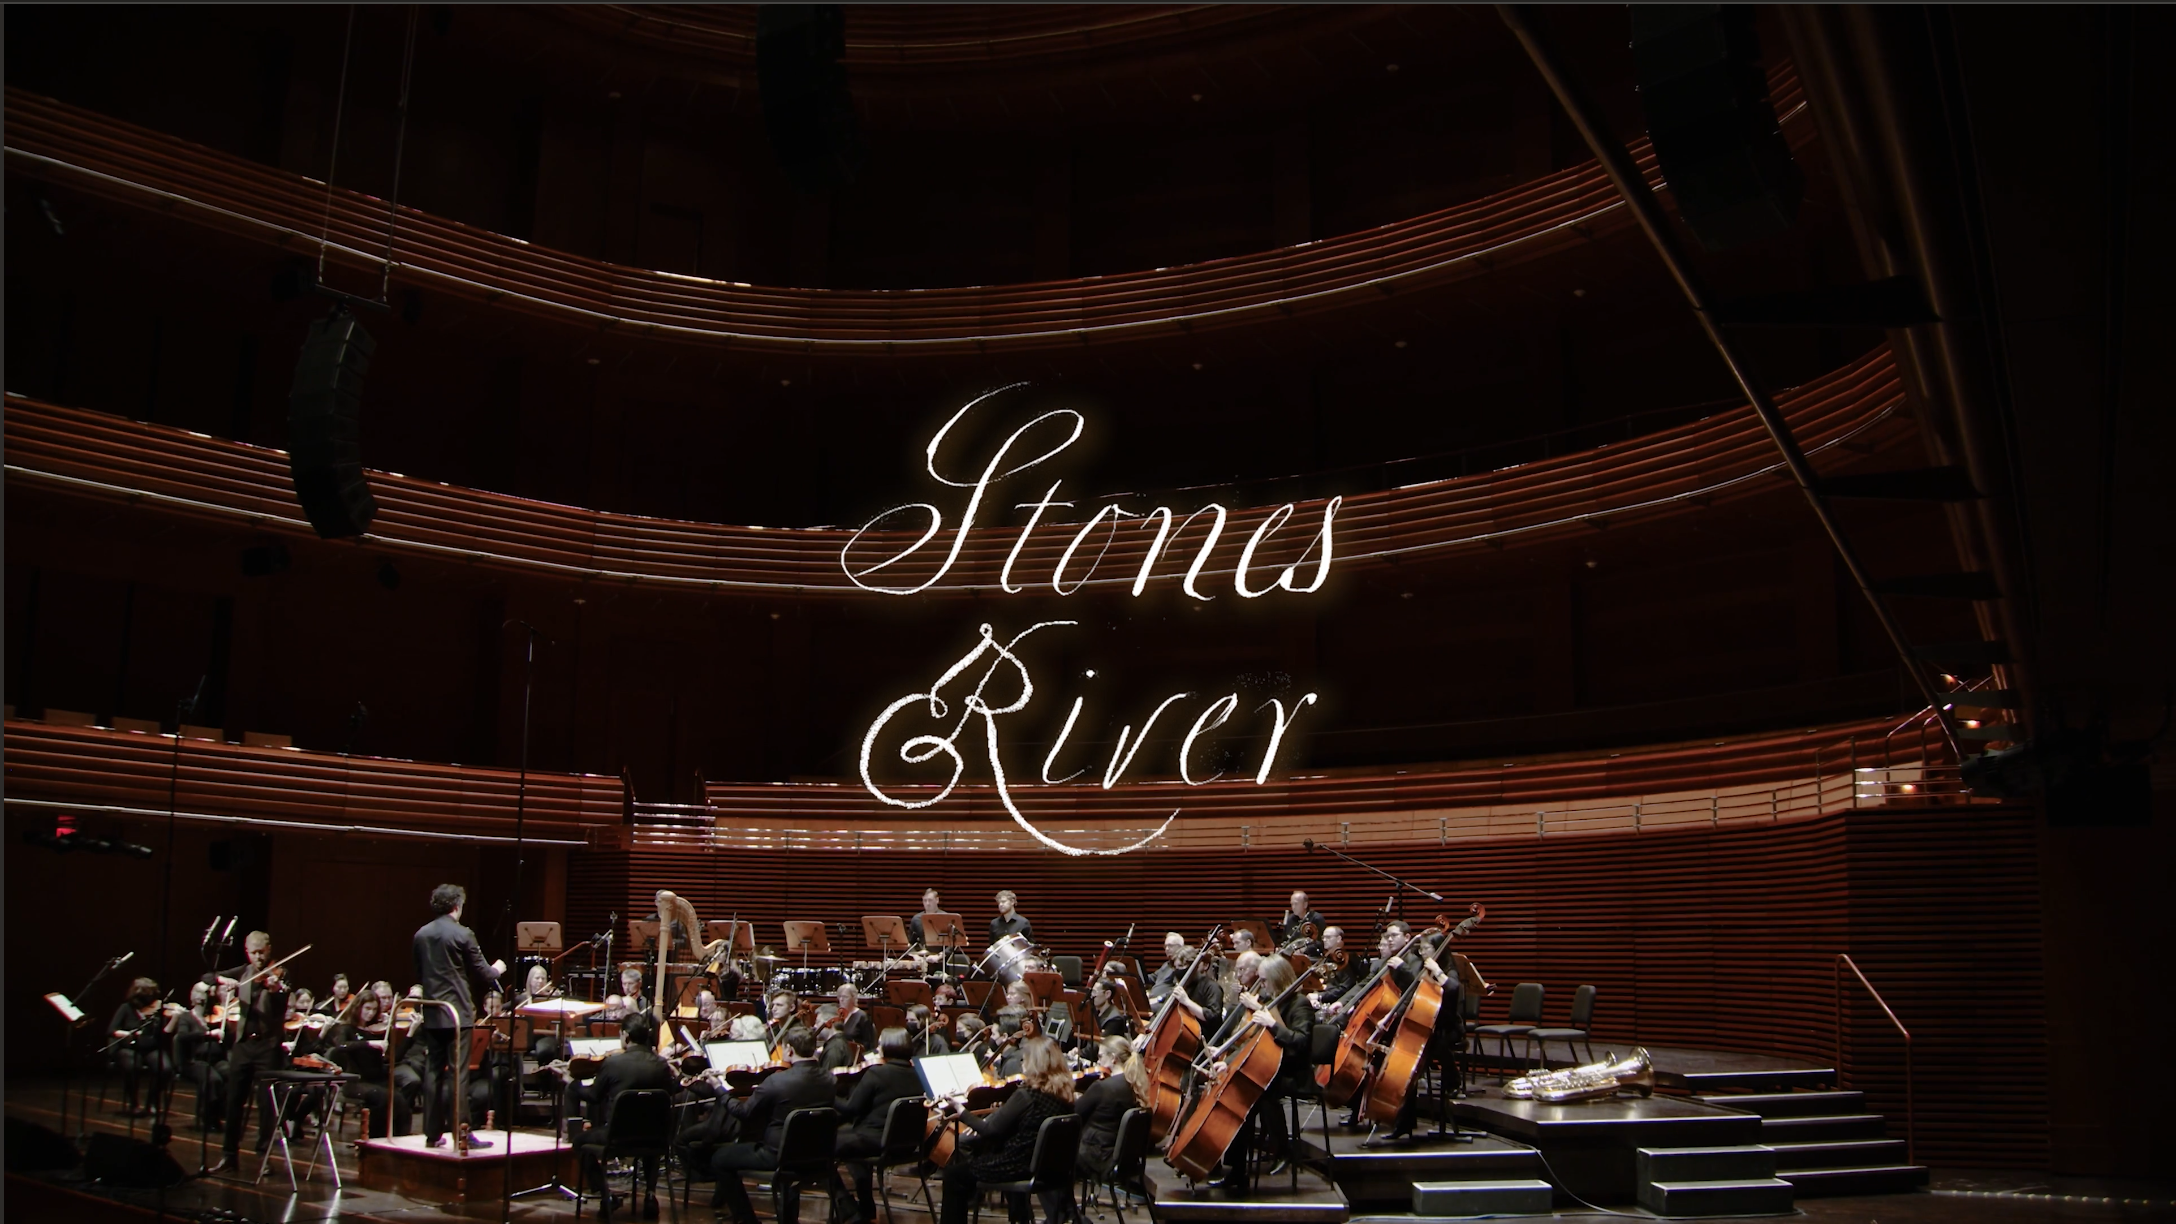
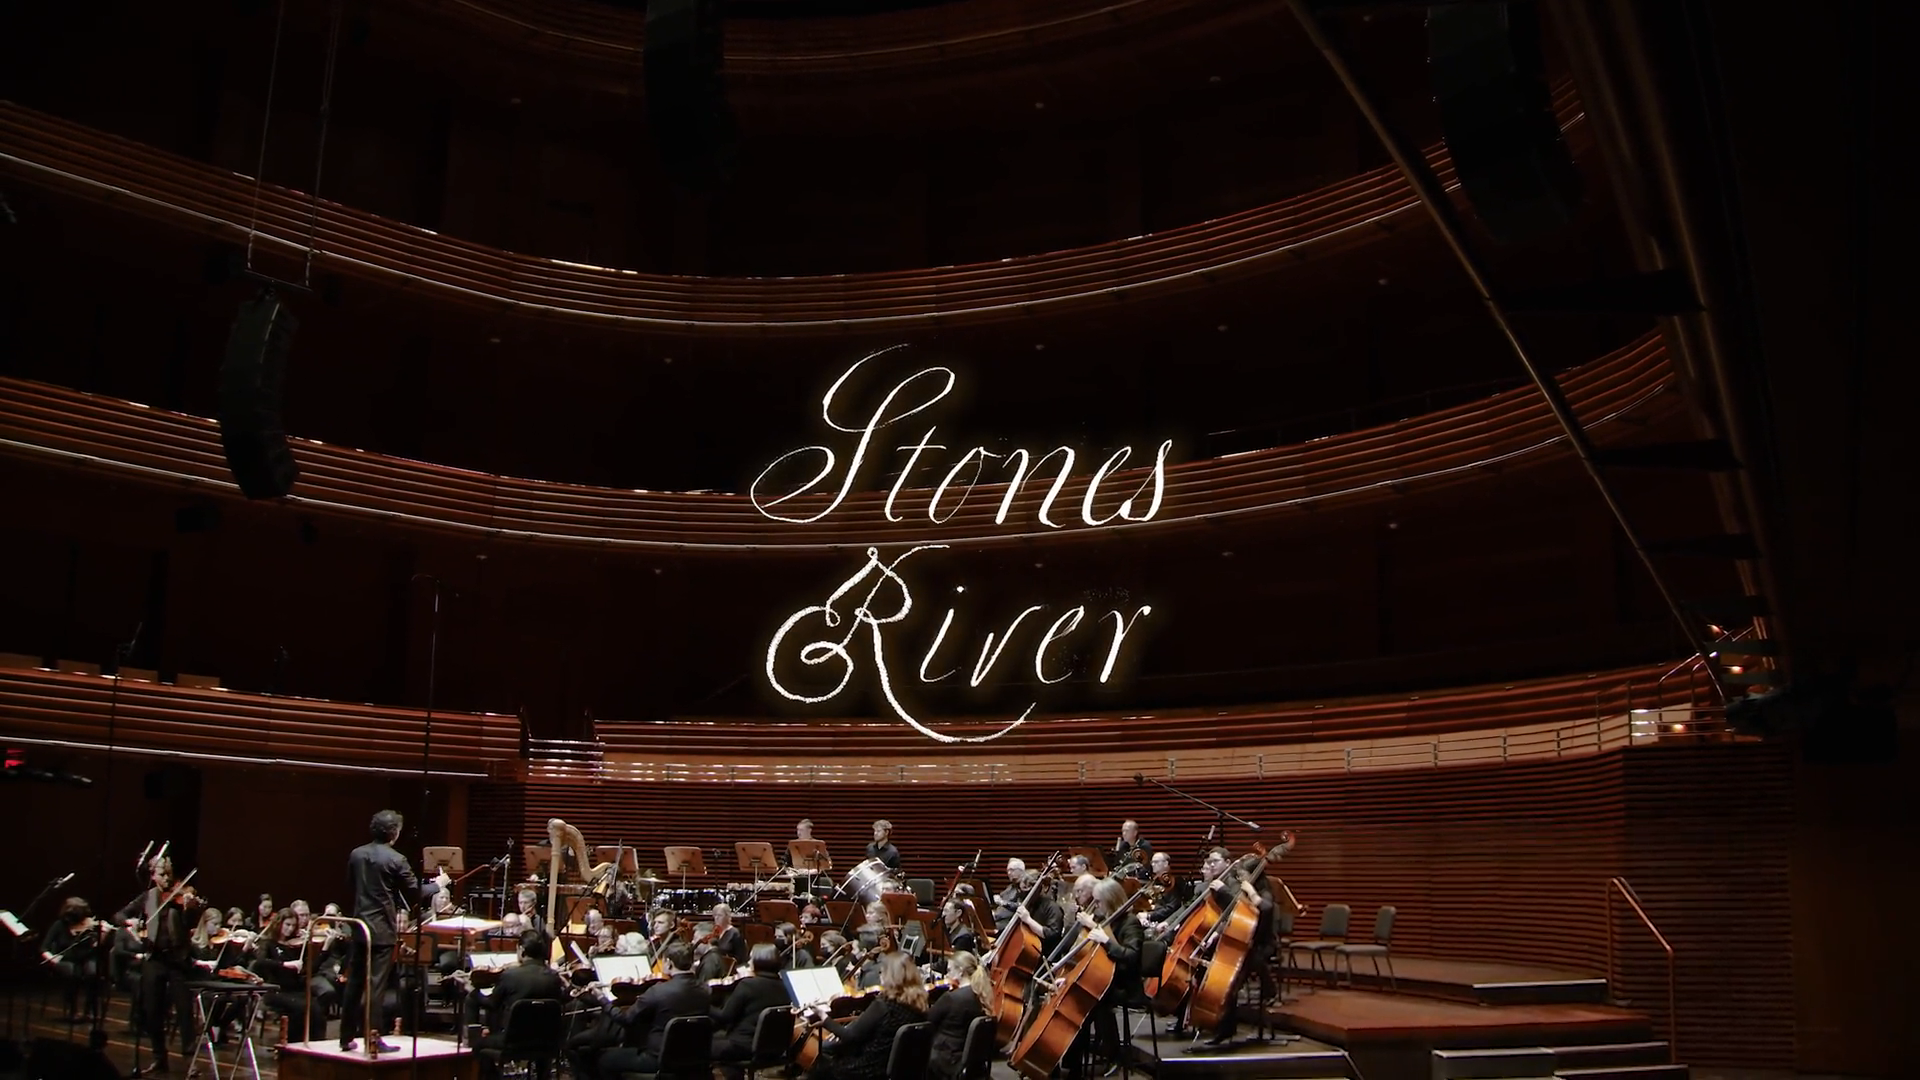
Video: swap poster for the Revision 3 title card, drops the tubas Jeremy flagged (v2.17.9)
The old designed thumbnail showed two tubas lying on the riser in the bottom
right. The Revision 3 cut's opening is framed without them, so the poster is now
a straight frame grab of its title card at 7.5s (1920x1080). Same filename, so
VideoSection.tsx is untouched.

CLAUDE.md: document the italics helper, the poster regen command, and the
Shopify "XX" placeholder ship dates still live in the tier modals.

Changed region(s): [[0.0, 0.0, 1.0, 1.0], [0.9375, 0.9778, 0.9688, 1.0], [0.8125, 0.0917, 0.8438, 0.1222]]

diff --git a/CLAUDE.md b/CLAUDE.md
@@ -53,12 +53,14 @@ You are the dedicated Claude Code session for the **Stones River album website**
 - **Local dev:** `npm run dev` would work but Ben prefers you don't run local servers. Verify changes via `npm run build` then commit and push — Cloud Build is the source of truth.
 
 ## Versioning
-- `VERSION` file in repo root, currently **`2.17.7`**.
+- `VERSION` file in repo root, currently **`2.17.9`**.
 - Bump after every meaningful deploy: patch (1.0.X) for fixes/tweaks, minor (1.X.0) for features, major (X.0.0) for overhauls.
 - Tell Ben the new version number after deploy.
 - **No UI version display.** This is a public-facing marketing site, so it's exempt from the global "show version in a footer/corner" rule (Ben, 2026-06-03). Keep the `VERSION` file and keep bumping it after deploys, but do not surface it in the UI.
 
-## Current State (as of 2026-09-08, v2.17.7)
+## Current State (as of 2026-09-11, v2.17.9)
+- **The album title *Stones River* is italicized everywhere it appears in copy (v2.17.8, OPO style note).** `italicizeAlbumTitle()` in `src/app/utils/albumTitle.tsx` wraps each "Stones River" in `<em>`. It's applied in About, Full Bio, Quote, the preorder cards/modals/item names, and the cart drawer, and `italicizeAlbumTitleHtml()` does the same to Shopify tier descriptions at the fetch boundary. "Battle of Stones River" (Full Bio) is the 1862 battle, not the album, so the regex skips it. **Route any new copy that names the album through the helper.** Alt text and the page `<title>` can't carry italics and are left alone. Headings are included (About `h2`, "Preorder *Stones River*"); the Garamond heading face has no italic file, so those render as a browser-synthesized slant, while Fira Sans body text has a real italic.
+- **Video poster is now a frame from the Revision 3 cut (v2.17.9).** The old designed thumbnail showed two tubas lying on the riser, bottom right, and Jeremy wanted them gone. The new video's opening is framed without them, so the poster is now its title card at 7.5s (regen command in the Video bullet below).
 - **Naming rule — "Orlando Philharmonic Orchestra" takes NO definite article** (Ben, 2026-08-17). Not "The Orlando Philharmonic Orchestra", and not "…and the Orlando Philharmonic Orchestra" mid-sentence either. Applied site-wide in v2.16.0: bio name + alt text, quote-image alt, banner alt, About copy, About-the-Album copy, and the OPO bio's opening sentence. Short informal references that aren't the full name ("the Philharmonic") were left alone. Keep new copy consistent with this.
 - **Bio photo credits (v2.16.0):** `BioData` has an optional `photoCredit?: string` (`biosData.ts`) rendered as small dimmed text (`text-white/40 text-xs`) directly under the image in the bio modal — modal only, not on the card. Eric Jacobsen: "Photo: Ben Van Hook". Orlando Philharmonic Orchestra: "Photo courtesy of Orlando Philharmonic". Jeremy Kittel has none.
 - **No mentions of The Knights or Brooklyn Rider anywhere on the site** (Ben, 2026-08-17). Two separate removals: the sentence about The Knights / NYC-based chamber orchestra in Eric's bio (`biosData.ts`, v2.16.0), and the "(The Knights, Brooklyn Rider)" parenthetical after Eric's name in the About-the-Album copy (`FullBioSection.tsx`, v2.16.1). Don't reintroduce either.
@@ -72,7 +74,8 @@ You are the dedicated Claude Code session for the **Stones River album website**
 - **Tier 6 has 11 items (v2.17.5–2.17.6).** An 11th entry, "Acknowledgement as an Associate Producer on the album website", leads both `tierIncludes` and `includedItems` — first because the tier is named for it. The card's "N items included" line is derived from `includedItems.length`, so there is no separate count to keep in sync, and **the two lists must stay the same length**. Its image is `Associate Producer Acknowledgement.png`, a 1200×1200 tile generated from the site's own ingredients (ITC Garamond Std Condensed Light from `public/fonts/`, `--associate-bg` #8A7A74, `--parchment` #F4F1EA) to match Ben's 295px screenshot of the Associate Producers section — regenerated rather than used as-is because the item modal renders up to 520px tall and is click-to-zoom.
 - **"Jacobsen" is spelled correctly everywhere** — audited the full repo and all six Shopify product descriptions on 2026-08-17. Zero instances of "Jacobson". No action needed if it comes up again.
 
-## In Flight / Blocked on Ben (as of 2026-08-19)
+## In Flight / Blocked on Ben (as of 2026-09-11)
+- **Shopify tier descriptions still carry placeholder dates, visible on the live site.** Tiers 1 and 2 say "Orders placed by XX will ship on XX" and Tier 3 lists the listening session as "Date TBD". The tier modal renders Shopify's `descriptionHtml`, so fans see the XX. Needs real ship-by dates from Ben; then either someone edits them in Shopify admin or the site patches them at the fetch boundary (same spot as `fixDoubleEscapedEntities`).
 - **Banner header spacing — designed and previewed, NOT built.** Jeremy flagged that the vertical divider in the banner has more space below than above. Two causes: the art is off by 19px (divider spans y122–650 of the 2880×792 banner → 122 above, 141 below), and — far bigger — `.sr-nav` carries `margin-bottom: -64px` so the menu sits *inside* the gap above the line. Clear space is 17px above vs 95px below at 1920px, and **at 1440px and 1280px the nav actually overlaps the line**. Agreed fix: drop the negative margin so the nav gets its own 64px band, fill that band with sky mirrored from the top of the banner (a strip asset with `background-size: cover; background-position: bottom`, whose bottom row is banner row 0, so the join is seamless), and trim 19px off the banner bottom. That makes the balance viewport-independent (61/61 at 1440, 81/82 at 1920) because the nav leaves the line's gap entirely. **Ben has not yet chosen navy band vs sky band** — nothing in the repo was touched.
 - **Associate Producers roster** — `associateProducers` in `AssociateProducers.tsx` is deliberately empty pending names from Ben.
 - **Shopify Tier 5 still stores `&amp;amp;`** — the site renders it correctly now, but the source data is still wrong. Needs an Admin API token this repo does not have.
@@ -95,7 +98,7 @@ You are the dedicated Claude Code session for the **Stones River album website**
 - **Item copy:** the two-tracks bullet reads "Instant access to two tracks from the album" (was "...to 2 unreleased tracks..."). The included-item image filename on disk still says `Access to 2 unreleased tracks.png` — filename only, not displayed.
 - **Museum-quality archival art print** uses the real signed/numbered Rush Baker IV print as thumbnail + first modal image.
 - **Item-modal images open a full-screen zoom lightbox** on click (magnifying-glass affordance).
-- **Video:** sizzle reel is **Revision 3** (swapped 2026-09-08, v2.17.7), re-encoded to ~29MB to stay under Cloud Run's ~32MiB response cap. If you swap the video, keep it under that ceiling or it 500s. **Working recipe** for the 4K masters Ben drops on his Desktop (~1GB, 3840x2160 @ 58Mbps): two-pass x264 `-vf scale=1920:1080:flags=lanczos -preset slow -b:v 1500k -c:a aac -b:a 128k -movflags +faststart` -> ~28.9MB for a 141s cut. The file path `public/assets/stones-river-sizzle.mp4` is referenced in exactly one place (`VideoSection.tsx`), so a swap is a drop-in file replace with no code change. The `poster` is a separate designed asset (`assets/Teaser Thumbnail.png`), not a video frame — it does not need regenerating on a swap. The preview is sized `max-w-6xl` with trimmed gutters (`VideoSection.tsx`) so it fills more of the blue texture band while leaving top/bottom margin.
+- **Video:** sizzle reel is **Revision 3** (swapped 2026-09-08, v2.17.7), re-encoded to ~29MB to stay under Cloud Run's ~32MiB response cap. If you swap the video, keep it under that ceiling or it 500s. **Working recipe** for the 4K masters Ben drops on his Desktop (~1GB, 3840x2160 @ 58Mbps): two-pass x264 `-vf scale=1920:1080:flags=lanczos -preset slow -b:v 1500k -c:a aac -b:a 128k -movflags +faststart` -> ~28.9MB for a 141s cut. The file path `public/assets/stones-river-sizzle.mp4` is referenced in exactly one place (`VideoSection.tsx`), so a swap is a drop-in file replace with no code change. The `poster` (`assets/Teaser Thumbnail.png`) is a frame grab of the title card at 7.5s (v2.17.9), so **if the video is swapped again, regenerate the poster too**: `ffmpeg -ss 7.5 -i public/assets/stones-river-sizzle.mp4 -frames:v 1 "assets/Teaser Thumbnail.png"`. Pick a moment where the title has fully faded in but the ~8s dissolve hasn't started. `VideoSection.tsx` imports it by that filename, so keep the name and it's a drop-in replace. The preview is sized `max-w-6xl` with trimmed gutters (`VideoSection.tsx`) so it fills more of the blue texture band while leaving top/bottom margin.
 - **Quote section (`QuoteSection.tsx`):** one continuous centered quote (no ellipses) — "When an orchestra moves intuitively as one, it's utter magic, and Stones River captures that magic" — with "— Jeremy Kittel" directly beneath it, over a single centered, enlarged orchestra image (`max-w-6xl`). The Jeremy/Eric **duo photo was cut**; `quote-duo.jpg` remains in the repo but is unused.
 - **Full-bio section (`FullBioSection.tsx`, v2.14.0):** an "About the Album" section between Honorary Producers and the footer — Garamond body, `max-w-4xl`, on a warm-brown background (`--full-bio-bg` #7D6E69, the midpoint of the honorary/footer browns) with raised text opacity for legibility (v2.14.1).
 - **Typography:** ITC Garamond Std Condensed Light (`public/fonts/ITCGaramondStd-LtCond.otf`, registered as `@font-face` + `.font-garamond` utility in `global.css`; `@font-face` weight range widened to 100–900 to avoid faux bold). **As of v2.13.0 it is the site heading face** via `--font-heading` (Xanh Mono removed), and also drives the About-section bio body, the artist names in The Artists section (`BiosSection.tsx` card + modal `<h3>`), and the pre-launch gate text. Body default remains Fira Sans.
